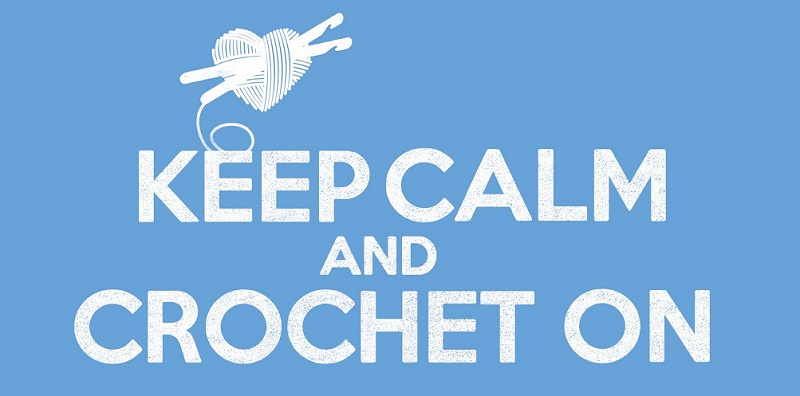
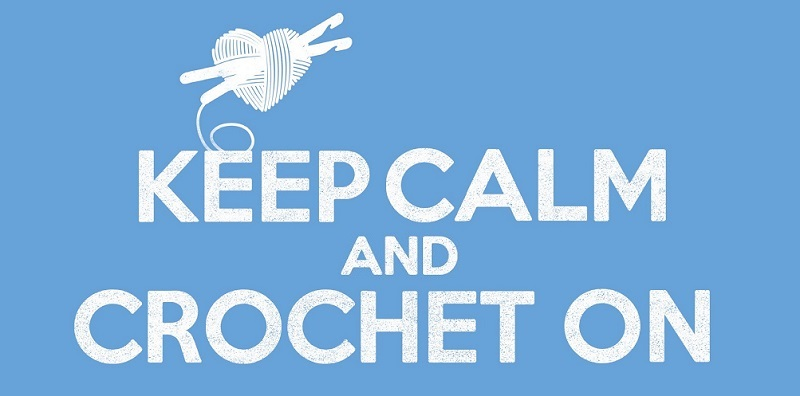
Male poprawki + zmiany do publisha

Changed region(s): [[0.375, 0.5758, 0.5938, 0.697]]

diff --git a/CrochetByJk/Content/Site.css b/CrochetByJk/Content/Site.css
@@ -18,10 +18,12 @@ textarea { max-width: 280px; }
 
 #baner {
   width: 100%;
-  background: #67A3D9
+  background: #67A3D9;
+  max-height: 400px;
 }
 #baner img{
- margin: 0 0 0 19%;
+   width: 65%;
+   margin: 0 18% 0 18%;
 }
 
 .navbar-default .navbar-brand { color: black; }
@@ -216,7 +218,7 @@ textarea { max-width: 280px; }
     margin: 0 auto;
     box-shadow: 0 0 8px rgba(0, 0, 0, .8);
 }
-.footer-item { margin-top: 20px; }
+.footer-item { margin-top: 21px; }
 
 @media (max-width: 1000px), screen and (max-width: 766px) {
     .navbar-header { float: none; }

diff --git a/CrochetByJk/Content/ReactComponents/Footer.jsx b/CrochetByJk/Content/ReactComponents/Footer.jsx
@@ -11,7 +11,7 @@ var Footer = React.createClass({
         </div>
       </Nav>
       <Navbar.Text pullRight>
-        <a href="https://www.facebook.com/Aktualne-promocje-w-sieci%C3%B3wkach-1376117769338648/">
+        <a href="https://www.facebook.com/Crochet-by-Joanna-Kuczynska-300469270100790">
           <i className="fa fa-facebook-square" style={{ fontSize: '30px', color: 'royalblue' }}></i></a>
       </Navbar.Text>
     </Navbar>);

diff --git a/CrochetByJk/Controllers/AuthController.cs b/CrochetByJk/Controllers/AuthController.cs
@@ -1,5 +1,4 @@
-using System.Security.Claims;
-using System.Threading.Tasks;
+using System.Threading.Tasks;
 using System.Web;
 using System.Web.Mvc;
 using CrochetByJk.Messaging.Core;
@@ -7,7 +6,6 @@ using CrochetByJk.Messaging.Queries;
 using CrochetByJk.Model.Model;
 using CrochetByJk.ViewModel;
 using Microsoft.AspNet.Identity;
-using Microsoft.Owin;
 using Microsoft.Owin.Security;
 
 namespace CrochetByJk.Controllers
